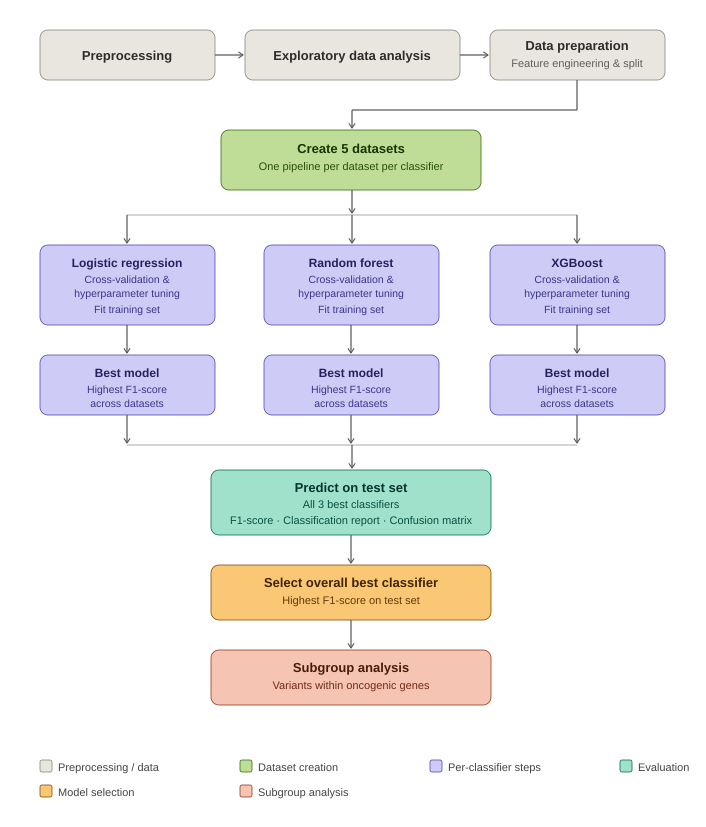
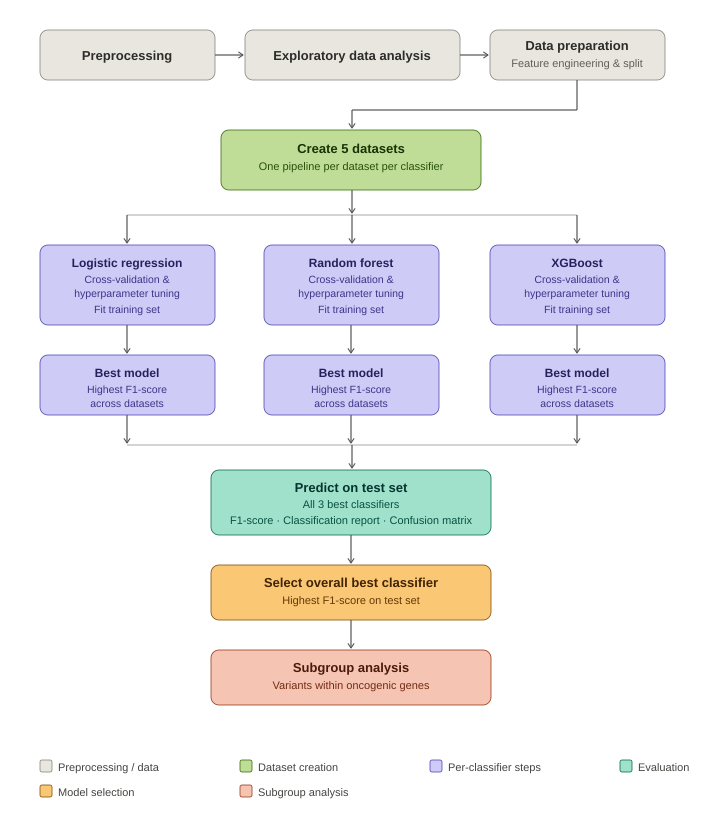
update image transparent background

diff --git a/README.md b/README.md
@@ -10,7 +10,7 @@ multiple feature sets, with Random Forest achieving the best performance.
     <img src="images/ml_pipeline.png" alt="Dataflow" width="600">
   </p>
   <figcaption align="center">
-    <b>Figure 1:</b> Machine learning pipeline for oncogenicity classification. The pipeline begins with preprocessing and exploratory data analysis, followed by data preparation including feature engineering and data splitting. Five datasets were constructed, each passed through three classifiers (Logistic Regression, Random Forest and XGBoost). Cross-validation and hyperparameter tuning were applied to each classifier. The best performing model per classifier is selected based on F1-score. All three models are evaluated on the test set using F1-score, classification report and confusion matrix. The overall best classifer was identified and applied to subsets of variants within oncogenic genes. The figure was designed by the author and rendered using the Claude (Anthropic) language model. 
+    <b>Figure 1:</b> Machine learning pipeline for oncogenicity classification. The pipeline begins with preprocessing and exploratory data analysis, followed by data preparation including feature engineering and data splitting. Five datasets were constructed, each passed through three classifiers (Logistic Regression, Random Forest and XGBoost). Cross-validation and hyperparameter tuning were applied to each classifier. The best performing model per classifier is selected based on F1-score. All three models are evaluated on the test set using F1-score, classification report and confusion matrix. The overall best classifier was identified and applied to subsets of variants within oncogenic genes. The figure was designed by the author and rendered using the Claude (Anthropic) language model. 
   </figcaption>
 </figure>
 
